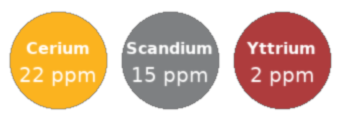
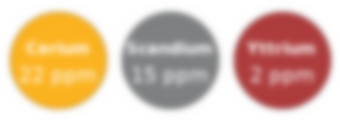
code added 28-04-26

Changed region(s): [[0.0, 0.05, 1.0, 0.95]]

diff --git a/app/pages/Index.tsx b/app/pages/Index.tsx
@@ -27,7 +27,17 @@ type IndexProps = {
 
 const Index = ({ report, appUrl = '' }: IndexProps) => {
   const reportPackage = report.reportPackage || 'premium';
-  const isTreasureBase = reportPackage === 'treasure_base';
+  const isPremium = reportPackage === 'premium';
+  const quickLookDisplayPreciousMetals =
+    reportPackage === 'treasure_base' ||
+    reportPackage === 'treasure_plus' ||
+    reportPackage === 'premium';
+  const quickLookDisplayRareEarthElements = reportPackage === 'treasure_plus' || reportPackage === 'premium';
+  const quickLookDisplayOil = reportPackage === 'treasure_plus' || reportPackage === 'premium';
+  const quickLookDisplayHeavyMetals =
+    reportPackage === 'hs_base' ||
+    reportPackage === 'hs_plus' ||
+    reportPackage === 'premium';
   const canDisplayPreciousBreakdown =
     reportPackage === 'treasure_base' ||
     reportPackage === 'treasure_plus' ||
@@ -68,11 +78,13 @@ const Index = ({ report, appUrl = '' }: IndexProps) => {
         oilIndicator={report.reportDetails.oilIndicator}
         preciousMetals={report.reportDetails.preciousMetals}
         rareEarthElements={report.reportDetails.rareEarthElements}
-        lockHeavyMetals={isTreasureBase}
-        lockOilIndicator={isTreasureBase}
-        lockRareEarthElements={isTreasureBase}
+        lockHeavyMetals={!isPremium && !quickLookDisplayHeavyMetals}
+        lockOilIndicator={!isPremium && !quickLookDisplayOil}
+        lockPreciousMetals={!isPremium && !quickLookDisplayPreciousMetals}
+        lockRareEarthElements={!isPremium && !quickLookDisplayRareEarthElements}
         lockedHeavyMetalsImageUrl={`${appUrl}/images/quicklook-heavy-locked-preview.png`}
         lockedOilIndicatorImageUrl={`${appUrl}/images/quicklook-oil-locked-preview.png`}
+        lockedPreciousMetalsImageUrl={`${appUrl}/images/quicklook-precious-locked-preview.png`}
         lockedRareEarthElementsImageUrl={`${appUrl}/images/quicklook-rare-earth-locked-preview.png`}
       />
       {/* 3. Elemental Breakdown */}
@@ -81,17 +93,22 @@ const Index = ({ report, appUrl = '' }: IndexProps) => {
       <OtherTraceElementsSection />
       {/* 11. Precious Metals Breakdown */}
       {shouldShowPreciousBreakdown && <PreciousMetalsBreakdownSection />}
-      {/* 5. Heavy Metal Breakdown */}
-      <HeavyMetalBreakdownSection />
-      {/* 6. Multi Level Chart */}
-      <MultiLevelChartSection
-        group1Max={report.multiLevelCharts.group1Max}
-        group1Rows={report.multiLevelCharts.group1Rows}
-        group1ScaleLabels={report.multiLevelCharts.group1ScaleLabels}
-        group2Max={report.multiLevelCharts.group2Max}
-        group2Rows={report.multiLevelCharts.group2Rows}
-        group2ScaleLabels={report.multiLevelCharts.group2ScaleLabels}
-      />
+      {/* 12. Precious Metal Present */}
+      {shouldShowPreciousBreakdown && (
+        <PreciousMetalPresentSection
+          items={report.preciousMetalPresent.items}
+          locked={canUnlockPreciousBreakdown}
+          lockedPreviewImageUrl={`${appUrl}/images/precious-metals-present-locked-preview.png`}
+        />
+      )}
+
+      {/* 13. Earth Elements Breakdown */}
+      {shouldShowRareEarthBreakdown && (
+        <EarthElementsBreakdownSection
+          locked={canUnlockRareEarthBreakdown}
+          lockedPreviewImageUrl={`${appUrl}/images/rare-earth-elements-locked-preview.png`}
+        />
+      )}
       {shouldShowPetroleumBreakdown && (
         <>
           {/* 7. Petroleum Contaminants */}
@@ -108,6 +125,7 @@ const Index = ({ report, appUrl = '' }: IndexProps) => {
           />
         </>
       )}
+
       {shouldShowOilBreakdown && (
         <OilContaminantsSection
           status={report.oilContaminants.status}
@@ -116,30 +134,41 @@ const Index = ({ report, appUrl = '' }: IndexProps) => {
           lockedPreviewImageUrl={`${appUrl}/images/oil-contaminants-locked-preview.png`}
         />
       )}
-      
+
+      {/* 5. Heavy Metal Breakdown */}
+      <HeavyMetalBreakdownSection />
+      {/* 6. Multi Level Chart */}
+      <MultiLevelChartSection
+        group1Max={report.multiLevelCharts.group1Max}
+        group1Rows={report.multiLevelCharts.group1Rows}
+        group1ScaleLabels={report.multiLevelCharts.group1ScaleLabels}
+        group2Max={report.multiLevelCharts.group2Max}
+        group2Rows={report.multiLevelCharts.group2Rows}
+        group2ScaleLabels={report.multiLevelCharts.group2ScaleLabels}
+      />
+
+      {/* 16. Found Elements List */}
+      <FoundElementsListSection elements={foundElementsForList} />
+      {/* 17. Not Found Elements List */}
+      <NotFoundElementsListSection elements={notFoundElementsForList} />
+
+      {/* 11. Precious Metals Breakdown */}
+      {/* {shouldShowPreciousBreakdown && <PreciousMetalsBreakdownSection />} */}
       {/* 12. Precious Metal Present */}
-      {shouldShowPreciousBreakdown && (
+      {/* {shouldShowPreciousBreakdown && (
         <PreciousMetalPresentSection
           items={report.preciousMetalPresent.items}
           locked={canUnlockPreciousBreakdown}
           lockedPreviewImageUrl={`${appUrl}/images/precious-metals-present-locked-preview.png`}
         />
-      )}
-      {/* 13. Earth Elements Breakdown */}
-      {shouldShowRareEarthBreakdown && (
-        <EarthElementsBreakdownSection
-          locked={canUnlockRareEarthBreakdown}
-          lockedPreviewImageUrl={`${appUrl}/images/rare-earth-elements-locked-preview.png`}
-        />
-      )}
+      )} */}
+
+
       {/* 14. Unique Soil */}
-      <UniqueSoilSection />
+      {/* <UniqueSoilSection /> */}
       {/* 15. Soil Feature */}
-      <SoilFeatureSection items={report.soilFeatures} />
-      {/* 16. Found Elements List */}
-      <FoundElementsListSection elements={foundElementsForList} />
-      {/* 17. Not Found Elements List */}
-      <NotFoundElementsListSection elements={notFoundElementsForList} />
+      {/* <SoilFeatureSection items={report.soilFeatures} /> */}
+
       {/* 18. Precious Metals Breakdown Heading */}
       <PreciousMetalsBreakdownHeading />
       {/* 19. Precious Metals */}

diff --git a/public/proxy-report.css b/public/proxy-report.css
@@ -355,9 +355,21 @@ p {
     height: auto;
 }
 
+.report_details_section .quicklook_locked_preview.precious {
+    max-width: 340px;
+    height: auto;
+}
+
 .report_details_section .quicklook_locked_preview.rare {
     max-width: 340px;
     height: auto;
+}
+
+.report_details_section .locked_preview {
+    filter: blur(4px);
+    opacity: 0.7;
+    pointer-events: none;
+    user-select: none;
 }
 
 .report_details_section .gold_bg,
@@ -812,6 +824,7 @@ p {
     background-color: #727a67;
     padding: 70px 0;
     border-bottom-right-radius: 150px;
+    margin-top: 80px;
 }
 
 .heavy_metal_breakdown_section .heavy_metal_inner_wrapper {
@@ -848,6 +861,7 @@ p {
     .heavy_metal_breakdown_section {
         border-bottom-right-radius: 130px;
         padding: 60px 0;
+        margin-top: 60px;
     }
 
     .heavy_metal_breakdown_section .heavy_metal_title {
@@ -866,6 +880,7 @@ p {
     .heavy_metal_breakdown_section {
         border-bottom-right-radius: 100px;
         padding: 50px 0;
+        margin-top: 50px;
     }
 
     .heavy_metal_breakdown_section .heavy_metal_title {
@@ -881,6 +896,9 @@ p {
 }
 
 @media (max-width: 767px) {
+    .heavy_metal_breakdown_section {
+        margin-top: 40px;
+    }
     .heavy_metal_breakdown_section .heavy_metal_inner_wrapper {
         flex-direction: column;
         align-items: flex-start;

diff --git a/app/models/report.server.ts b/app/models/report.server.ts
@@ -724,8 +724,20 @@ base.foundElements = found.slice(0, 60)
 
     base.elementBreakdown.items = breakdownItems;
 
+    const reportChartRows = sorted
+      .filter((r) => String(r.category || "").trim().toLowerCase() !== "petroleum_contaminant")
+      // .slice(0, 15);
+    const reportChartTotalPpm = reportChartRows.reduce((sum, r) => sum + r.ppmValue, 0);
+    const reportChartItems = reportChartRows.map(
+      (r): BreakdownBarItem => ({
+        name: r.element,
+        percentage: reportChartTotalPpm > 0 ? Math.round((r.ppmValue / reportChartTotalPpm) * 100) : 0,
+        color: (ELEMENT_COLOR_MAP[r.element.trim().toLowerCase()] ?? ELEMENT_COLOR_MAP.default).bg,
+      }),
+    );
+
     // Populate layered chart arrays used by the report details polar chart.
-    base.reportDetails.reportChart = breakdownItems.reduce(
+    base.reportDetails.reportChart = reportChartItems.reduce(
       (acc, item) => {
         const value = Number(item.percentage) || 0;
         acc.elementNames.push(item.name);

diff --git a/app/components/sections/ReportDetailsSection.tsx b/app/components/sections/ReportDetailsSection.tsx
@@ -33,9 +33,11 @@ type ReportDetailsSectionProps = {
   rareEarthElements: MetalCardItem[];
   lockHeavyMetals?: boolean;
   lockOilIndicator?: boolean;
+  lockPreciousMetals?: boolean;
   lockRareEarthElements?: boolean;
   lockedHeavyMetalsImageUrl?: string;
   lockedOilIndicatorImageUrl?: string;
+  lockedPreciousMetalsImageUrl?: string;
   lockedRareEarthElementsImageUrl?: string;
 };
 
@@ -46,9 +48,11 @@ const ReportDetailsSection = ({
   rareEarthElements,
   lockHeavyMetals = false,
   lockOilIndicator = false,
+  lockPreciousMetals = false,
   lockRareEarthElements = false,
   lockedHeavyMetalsImageUrl,
   lockedOilIndicatorImageUrl,
+  lockedPreciousMetalsImageUrl,
   lockedRareEarthElementsImageUrl,
 }: ReportDetailsSectionProps) => {
   
@@ -106,6 +110,9 @@ const ReportDetailsSection = ({
 
             <div className="info_block">
               <h2 className="report_main_heading">Precious Metals</h2>
+              {lockPreciousMetals && lockedPreciousMetalsImageUrl ? (
+                <img src={lockedPreciousMetalsImageUrl} alt="" className="quicklook_locked_preview precious" aria-hidden="true" />
+              ) : (
               <div className="circles_flex">
                 {preciousMetals.map((item) => (
                   <div
@@ -119,6 +126,7 @@ const ReportDetailsSection = ({
                   </div>
                 ))}
               </div>
+              )}
             </div>
 
             <div className="info_block no_border">